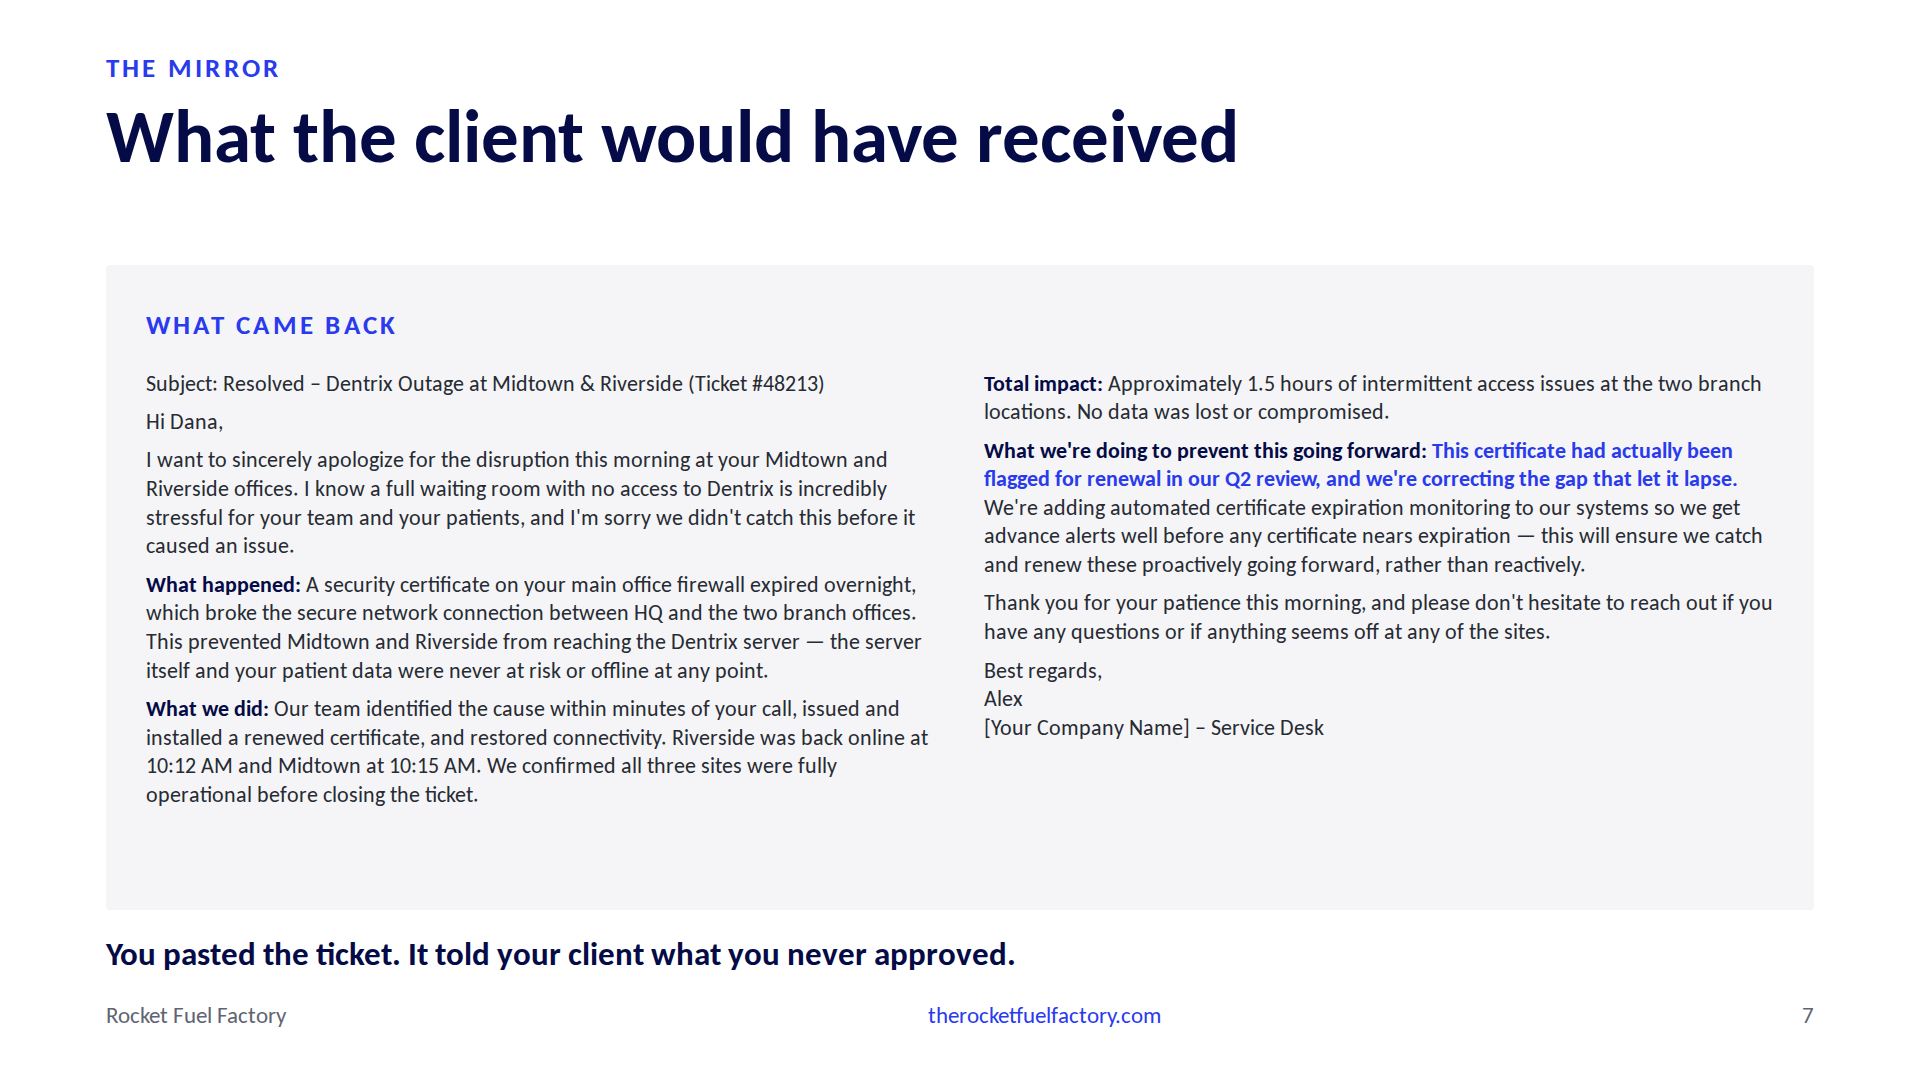
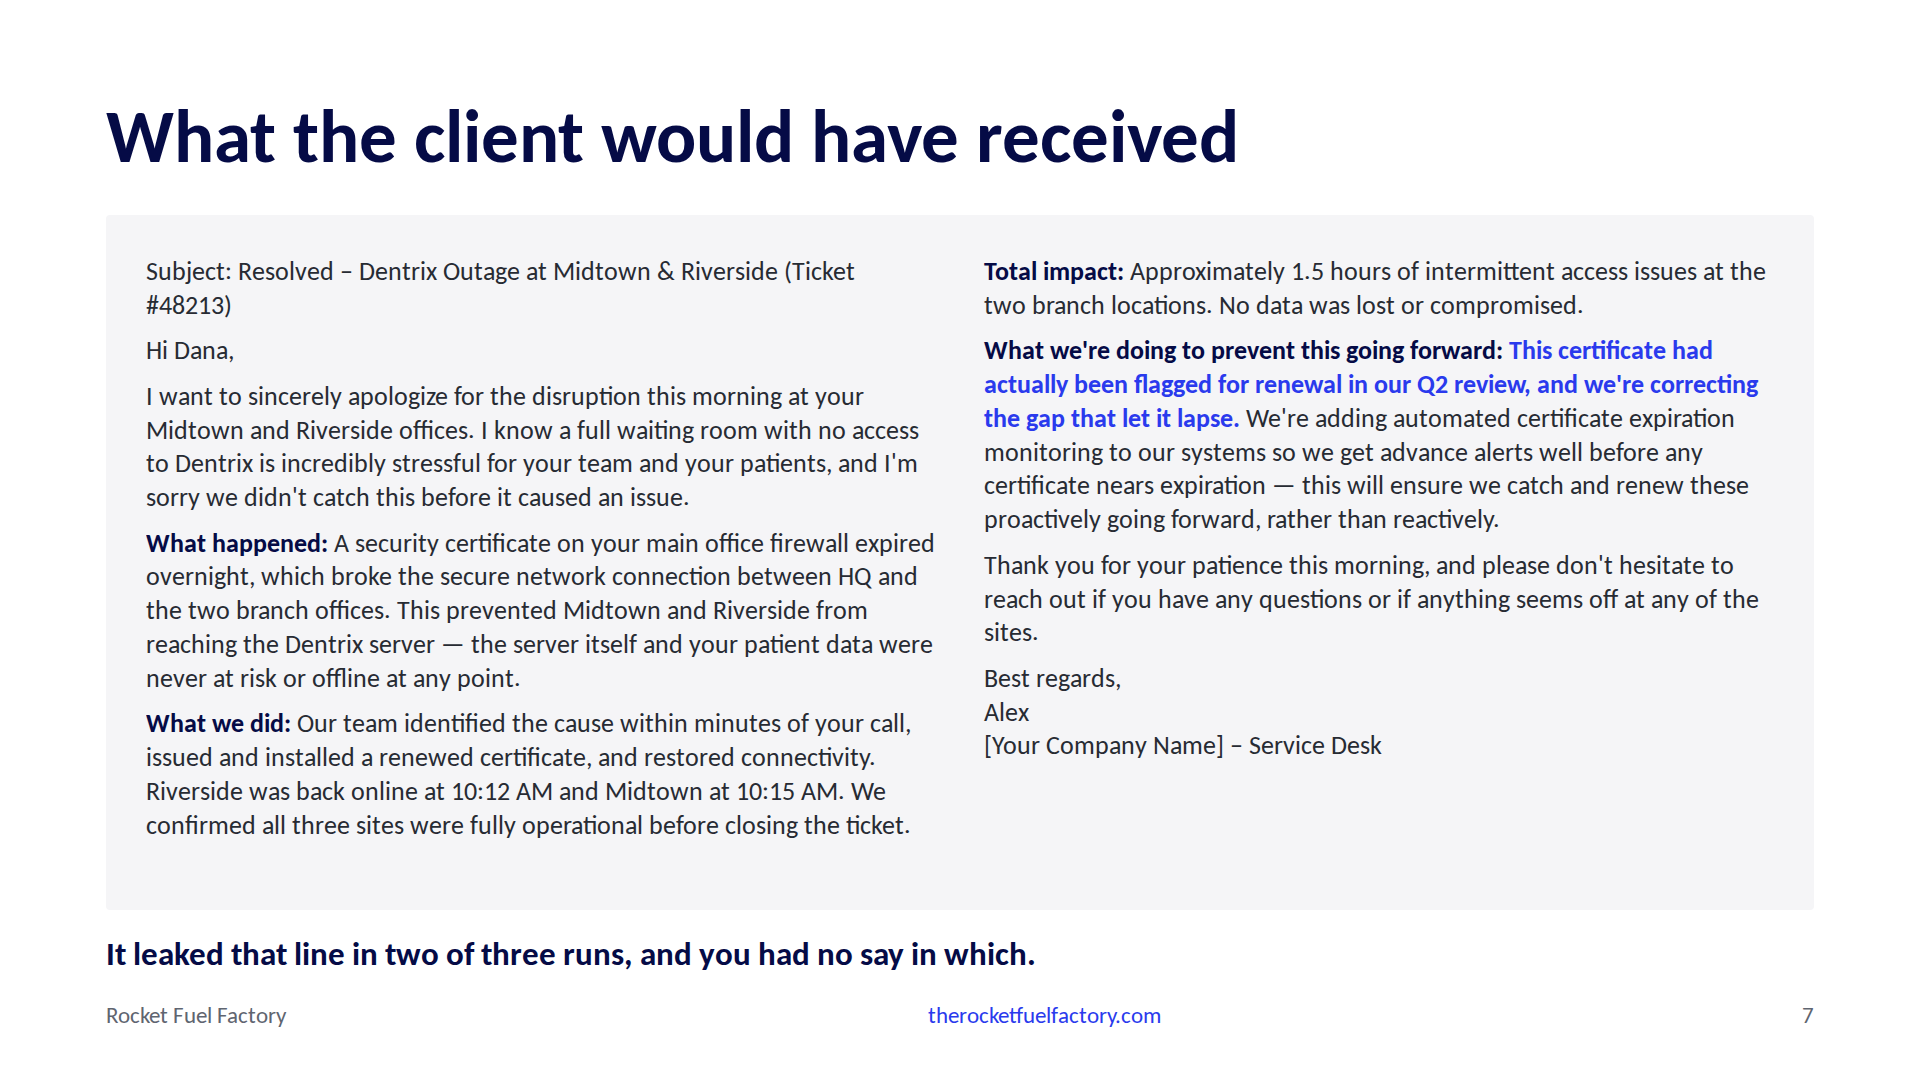
Slide 7: no eyebrow or panel label, 26px email, replay fact as footer, note as spoken words

Changed region(s): [[0.0625, 0.2444, 0.9375, 0.7944], [0.0625, 0.8556, 0.5312, 0.9167], [0.0625, 0.0306, 0.1562, 0.0917]]

diff --git a/src/data/notes.js b/src/data/notes.js
@@ -10,7 +10,7 @@ export const notes = {
   'abdicate-not-delegate': 'Target 2:30. You hand a job to your senior tech with about two sentences, and it comes back right, so you assume the two sentences were good. They were not. That person was making a dozen small calls you never mentioned, and making them the way you would have. Then you give the same two sentences to somebody new. What comes back is wrong, and you decide the new person is not working out. The brief was the problem both times. Look at the left column. The rule for who gets a phone call took one sentence. Nobody in your shop has ever been asked for that sentence, and you have been paying for the guess instead. You only find out when you hand the job to somebody who cannot read your mind. Then you hand that same two-sentence brief to something that has never met you.',
   'the-demo-never-had-a-client': 'Target 4:00. I have sat through a lot of these. Somebody types a sentence, something gorgeous appears. Nobody in the demo checks whether the details are right, because in a demo nobody has to. And if you go back and watch one of those videos carefully, the presenter does not stop at one sentence either. They come back with more instructions. That part just gets cut short. So I go back to work and try it the same way, one sentence and a paste. What comes back is real effort and a reasonable guess at what I meant, and I would not send it. Here is what that looks like.',
   'demo-weak': 'Target 4:40. This is how most of us do it. One line, and paste the ticket under it. The ticket has everything a tech would need: the full waiting room, the FortiGate, Phase 1, DigiCert, and that line near the bottom about the Q2 review where nobody approved the renewal. My best tech reads that and knows what to leave out. The AI has no idea who Dana is.',
-  'demo-weak-output': 'Target 5:40. Whole thing, two columns, so they can see how long it is. Read it as Dana. Ticket number in the subject line. Bold section headers like an incident report. Bottom right: Your Company Name, it did not know who was speaking. Then the blue sentence. Read it aloud: this certificate had actually been flagged for renewal in our Q2 review, and we are correcting the gap that let it lapse. That is the one line in the ticket you would never put in front of a client, and it is now in an email Dana forwards to the practice owner. When I reran this, it did that two times out of three. The third time it hid it. You did not get a vote either way. Line to land: you pasted the ticket, it told your client what you never approved. Then: it did exactly what you wrote. So did your tech. This one was fast enough for you to notice.',
+  'demo-weak-output': 'Target 5:30. Read it as Dana. Ticket number in the subject. Bold headers like an incident report. At the bottom, Your Company Name in brackets, because it did not know who was speaking. Then the blue sentence: this certificate had actually been flagged for renewal in our Q2 review, and we are correcting the gap that let it lapse. That is the one line in that ticket I would never put in front of a client, and it is now in an email Dana forwards to Dr. Patel. I ran this three times. It put that line in twice. The third time it left it out. I had no say in which. It did what I asked, the same as a new tech would with that ticket and that one line.',
   'demo-brief': 'Target 8:25. Now you know what to say. Same ticket pasted underneath; these are the words that went above it, in plain prose. Point at what the machine asked for and you supplied: who Dana is and that she forwards it to Dr. Patel, do not quote the ticket, the Q2 conversation is for me and the owner, no patient data because that is what she asked on the phone, and on top of it means monitoring by Friday. This is delegating.',
   'demo-strong': 'Target 9:40. Loud punchline: same tool, same task, the only thing that changed was how you asked. Under 150 words, Dr. Patel named, forwardable. Then the bridge, one breath, before the click. That is communication: hand over the judgment calls, not just the facts. Now take it to something bigger than an email. When you say we set up new users, what you have is a ticket with the facts. The judgment calls are in someone\'s head. You just saw what happens when you hand that to a machine. Click.',
   'demo-ask': 'Target 6:40. Bridge, said before the click: this is where most people get frustrated and stop. Do not stop, and do not just ask it to try again. Ask it how you should have asked. Show the answer. Five things it wanted up front: who is reading, what on top of it was supposed to mean, whether the Q2 detail was a feature or a liability, tone, any business ask. Then read the punchline off the slide, slowly, and do not editorialize: I put it in, that is a 50/50 guess I should not have made silently. It knows. It just described abdication better than I did. Try this tonight on the last answer that disappointed you.',

diff --git a/src/components/layouts/PromptOutputSlide.jsx b/src/components/layouts/PromptOutputSlide.jsx
@@ -141,18 +141,19 @@ export default function PromptOutputSlide({
   punchline,
   punchlineQuoted = false,
   footnote,
+  panelTop = TOP,
 }) {
   const hasExtraLine = Boolean(punchline || footnote)
   const bottom = FOOTER_TOP - BOTTOM_MARGIN - (hasExtraLine ? (punchlineQuoted ? QUOTED_LINE_SPACE : EXTRA_LINE_SPACE) : 0)
-  const height = bottom - TOP
+  const height = bottom - panelTop
   const labelClass = ACCENT_TEXT[accent]
 
   const leftStyle = only
-    ? { left: LEFT, top: TOP, width: CONTENT_WIDTH, height }
-    : { left: LEFT, top: TOP, width: LEFT_WIDTH, height }
+    ? { left: LEFT, top: panelTop, width: CONTENT_WIDTH, height }
+    : { left: LEFT, top: panelTop, width: LEFT_WIDTH, height }
   const rightStyle = only
-    ? { left: LEFT, top: TOP, width: CONTENT_WIDTH, height }
-    : { left: LEFT + LEFT_WIDTH + GAP, top: TOP, width: RIGHT_WIDTH, height }
+    ? { left: LEFT, top: panelTop, width: CONTENT_WIDTH, height }
+    : { left: LEFT + LEFT_WIDTH + GAP, top: panelTop, width: RIGHT_WIDTH, height }
 
   return (
     <ContentFrame eyebrow={eyebrow} title={title} accent={accent} slideNumber={slideNumber}>

diff --git a/src/components/slides/007-DemoWeakOutput.jsx b/src/components/slides/007-DemoWeakOutput.jsx
@@ -7,18 +7,20 @@ import { weakOutput, withoutTim } from '../../data/demo.js'
 export default function DemoWeakOutput({ slideNumber }) {
   return (
     <PromptOutputSlide
-      eyebrow="The mirror"
+      eyebrow=""
       title="What the client would have received"
       accent="blue"
       slideNumber={slideNumber}
       only="output"
+      outputLabel=""
       output={withoutTim(weakOutput)}
-      outputFontSize={22}
+      outputFontSize={26}
+      panelTop={215}
       outputColumns={2}
       outputEmphasize={[
         'This certificate had actually been flagged for renewal in our Q2 review, and we\'re correcting the gap that let it lapse.',
       ]}
-      punchline="You pasted the ticket. It told your client what you never approved."
+      punchline="It leaked that line in two of three runs, and you had no say in which."
     />
   )
 }

diff --git a/src/components/chrome/ContentFrame.jsx b/src/components/chrome/ContentFrame.jsx
@@ -10,9 +10,11 @@ import Footer from './Footer'
 export default function ContentFrame({ eyebrow, title, accent = 'blue', slideNumber, children }) {
   return (
     <div className="relative h-full w-full bg-white">
-      <Eyebrow accent={accent} className="absolute left-[106px] top-[48px]">
-        {eyebrow}
-      </Eyebrow>
+      {eyebrow && (
+        <Eyebrow accent={accent} className="absolute left-[106px] top-[48px]">
+          {eyebrow}
+        </Eyebrow>
+      )}
       <SlideTitle className="absolute left-[106px] right-[106px] top-[96px]">{title}</SlideTitle>
       <div className="absolute inset-0">{children}</div>
       <Footer slideNumber={slideNumber} />

diff --git a/docs/OUTLINE.md b/docs/OUTLINE.md
@@ -41,7 +41,7 @@ Closing line: If you can't write the rule, you can't hire your way out of it eit
 4. Handing over the work is not the same as delegating (comparison, blue). One of slide 3's decisions made concrete. When you delegate: you hand them the queue; you wrote the rule down (call on any P1, and on anything from a client who has called twice); they check the ticket against that. When you hand over the rules too: you hand them the queue; you left the rule to them (use your judgment); they guess, and with luck they guess right. Closing, Tim's line: your best employees are the ones who usually guess right. The word is rule (what gets written), not decision (what the tech does) or judgment (what is in their head). Note: the two-sentence brief that works on your senior tech and fails on the new person; the rule took one sentence and nobody was ever asked for it; last line points at the demo without naming AI.
 5. We expect AI to do wonders with a little instruction (bullets, blue; eyebrow: what AI taught us to expect). Tim's point in his words: AI demos give a little instruction and show something beautiful built from it; beautiful does not mean the details are where you want them; you already know what a junior tech does with a ticket that thin (real effort, a reasonable guess, something you would not put your name on); AI does that too, without the pause where a person asks you a question. Note: nobody checked the details because in a demo nobody has to; you try it the same way at work; here is what that looks like. Nothing about the email; slide 6 opens cold.
 6. How most people prompt (full-width ask; eyebrow: one sentence and a paste). What owners actually do: one line ("Write an email to the client about this. Apologize and let them know we're on top of it.") above a pasted PSA ticket. The ticket has everything a tech needs: full waiting room, FGT-60F, Phase 1, DigiCert, and the aside that this cert was flagged in the Q2 review and nobody approved the renewal. Every fact.
-7. What the client would have received (full-width output, whole, two columns). Ticket number in the subject. Incident-report headers. Placeholder sign-off. And in blue, the machine's own sentence to Dana: this certificate had actually been flagged for renewal in our Q2 review, and we're correcting the gap that let it lapse. The one line in the ticket you would never put in front of a client, now in an email she forwards to the practice owner. Reran it three times: disclosed twice, hidden once, you did not get a vote either way. Line: you pasted the ticket, it told your client what you never approved. Then: it did exactly what you wrote. So did your tech. This one was fast enough for you to notice.
+7. What the client would have received (full-width output, whole, two columns). Ticket number in the subject. Incident-report headers. Placeholder sign-off. And in blue, the machine's own sentence to Dana: this certificate had actually been flagged for renewal in our Q2 review, and we're correcting the gap that let it lapse. The one line in the ticket you would never put in front of a client, now in an email she forwards to the practice owner. Reran it three times: disclosed twice, hidden once, you did not get a vote either way. Footer: it leaked that line in two of three runs, and you had no say in which. Note ends: it did what I asked, the same as a new tech would with that ticket and that one line. No eyebrow or panel label; the email gets the room.
 8. Ask it how to ask better (prompt/output). Bridge, said aloud first: this is where most people get frustrated and stop. Do not stop, and do not just ask it to try again. Ask it how you should have asked. Its five items: who is actually reading it, what on top of it was supposed to mean, whether the Q2 detail was a feature or a liability, tone register, any business ask riding along. Punchline, its own words about the leak: I put it in. That's a 50/50 guess I shouldn't have made silently. Quiet. Try this tonight.
 9. Now with the judgment calls (full brief). Earned by the previous slide. Same ticket pasted underneath; these are the words that went above it, in prose: who Dana is and that she forwards to Dr. Patel; do not quote the ticket; the Q2 conversation is for me and the owner, not this email; no patient data touched because that is what she asked on the phone; what on top of it actually means, monitoring by Friday. This is delegating.
 10. Forwardable without edits (full output). Under 150 words, Dr. Patel named. Loud: same tool, same task, the only thing that changed was how you asked. Bridge to Aharon, spoken: that is communication, hand over the judgment calls, not just the facts. Now take it to something bigger than an email. When you say we set up new users, what you have is a ticket with the facts; the judgment calls are in someone's head. You just saw what happens when you hand that to a machine.
@@ -61,7 +61,6 @@ Closing line: If you can't write the rule, you can't hire your way out of it eit
 ## Lines to drop verbatim, once each
 
 - Whose vacation request do you dread approving?
-- It did exactly what you wrote. So did your tech. This one was fast enough for you to notice.
 - Same tool. Same task. The only thing that changed was how you asked.
 - I put it in. That's a 50/50 guess I shouldn't have made silently. (the machine's line, read off the slide)
 - Aharon's first law: you can't automate a process that doesn't exist.
